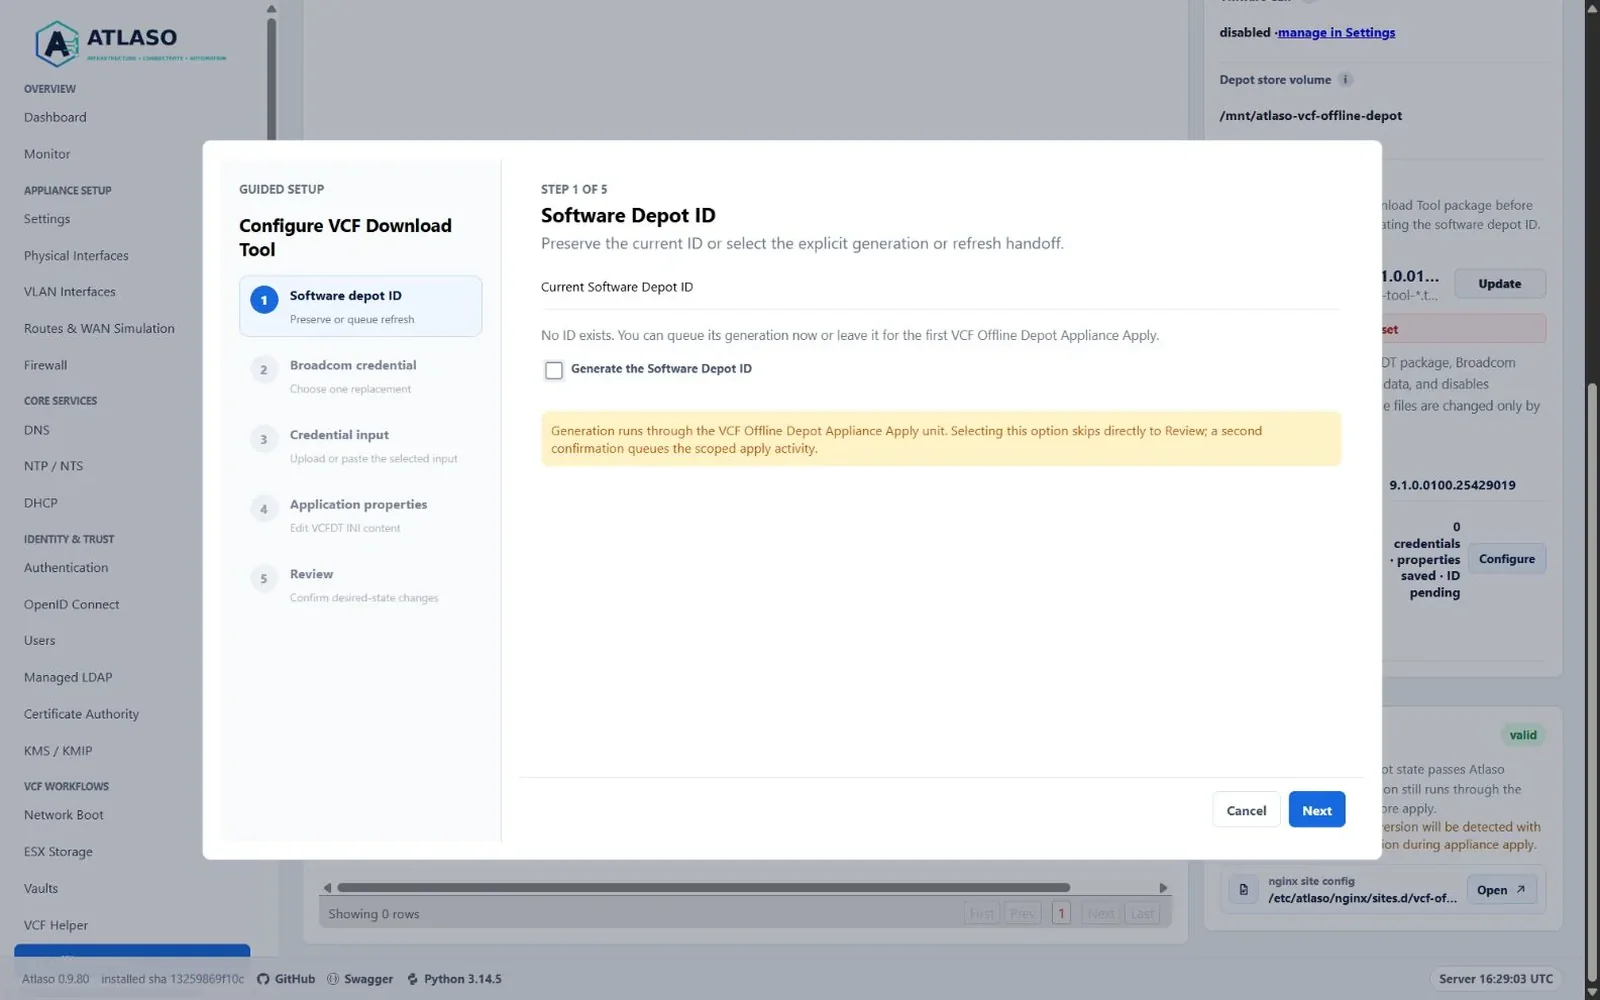
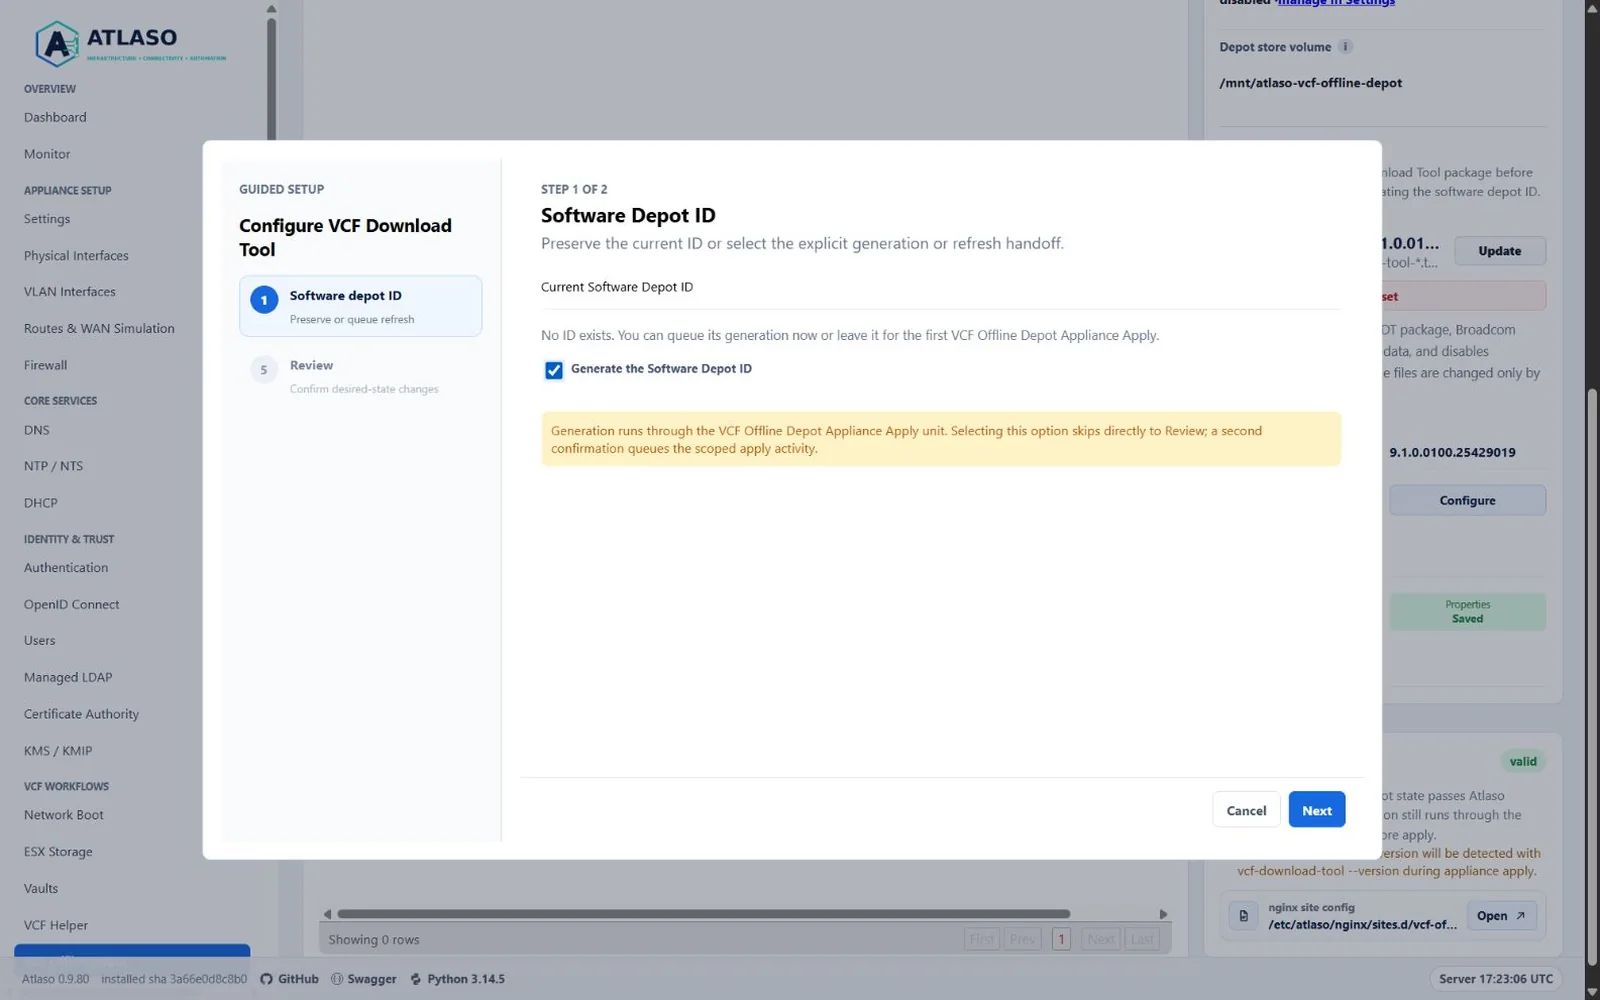
Refresh refined VCFDT captures

diff --git a/docs/services/vcf-offline-depot.md b/docs/services/vcf-offline-depot.md
@@ -89,8 +89,8 @@ These captures show responsive layouts and useful operational states referenced 
 
 *Figure: VCF Offline Depot profile ordering and staging state in the responsive viewport.*
 
-![Atlaso VCFDT configuration wizard Software Depot ID step without credential contents.](../assets/screenshots/vcf-offline-depot-configuration-wizard.webp)
+![Atlaso VCFDT configuration wizard showing only Software Depot ID and Review after generation is selected.](../assets/screenshots/vcf-offline-depot-configuration-wizard.webp)
 
-*Figure: VCFDT configuration starts with the Software Depot ID generation or refresh handoff.*
+*Figure: VCFDT configuration hides credential and properties steps when Software Depot ID generation is selected.*
 
 <!-- END GENERATED ADDITIONAL SCREENSHOTS -->

diff --git a/docs/reference/interface-gallery.md b/docs/reference/interface-gallery.md
@@ -511,9 +511,9 @@ Figure: VCF Offline Depot with metadata first and the compact VCFDT configuratio
 
 Figure: VCF Offline Depot profile ordering and staging state in the responsive viewport.
 
-![Atlaso VCFDT configuration wizard Software Depot ID step without credential contents.](../assets/screenshots/vcf-offline-depot-configuration-wizard.webp)
+![Atlaso VCFDT configuration wizard showing only Software Depot ID and Review after generation is selected.](../assets/screenshots/vcf-offline-depot-configuration-wizard.webp)
 
-Figure: VCFDT configuration starts with the Software Depot ID generation or refresh handoff.
+Figure: VCFDT configuration hides credential and properties steps when Software Depot ID generation is selected.
 
 ## Vcf Private Registry
 
